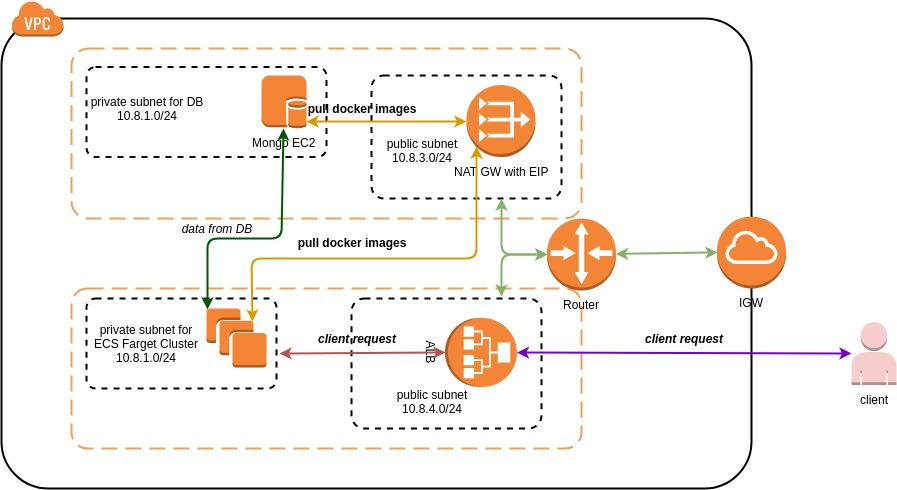
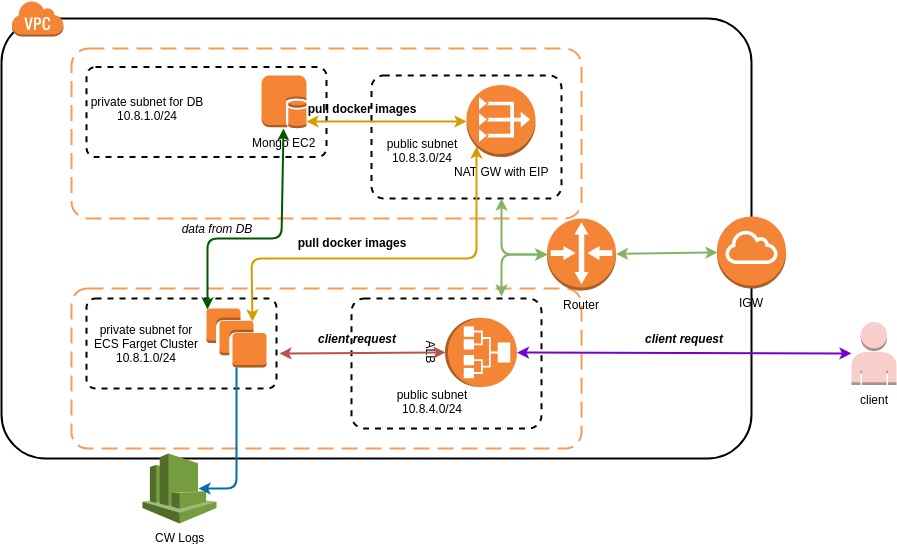
Task/rfs 2 (#38)
* add lg info

diff --git a/README.md b/README.md
@@ -265,7 +265,8 @@ Outputs:
 alb = mms-kio-alb-124578.us-east-1.elb.amazonaws.com
 ```
 go to http://mms-kio-alb-124578.us-east-1.elb.amazonaws.com/health
-It will return `503` as because MongoDB is running on EC2 instance which has not been ready state yet. Wait 2/3 minutes the app will be ready.
+It will return `503` as because MongoDB is running on EC2 instance which has not been ready state yet. Detail logs can be found at cloudwatch log group `mms-kio-ecs`. Wait 2/3 minutes the app will be ready.
+
 
 http://mms-kio-alb-124578.us-east-1.elb.amazonaws.com/health
 
